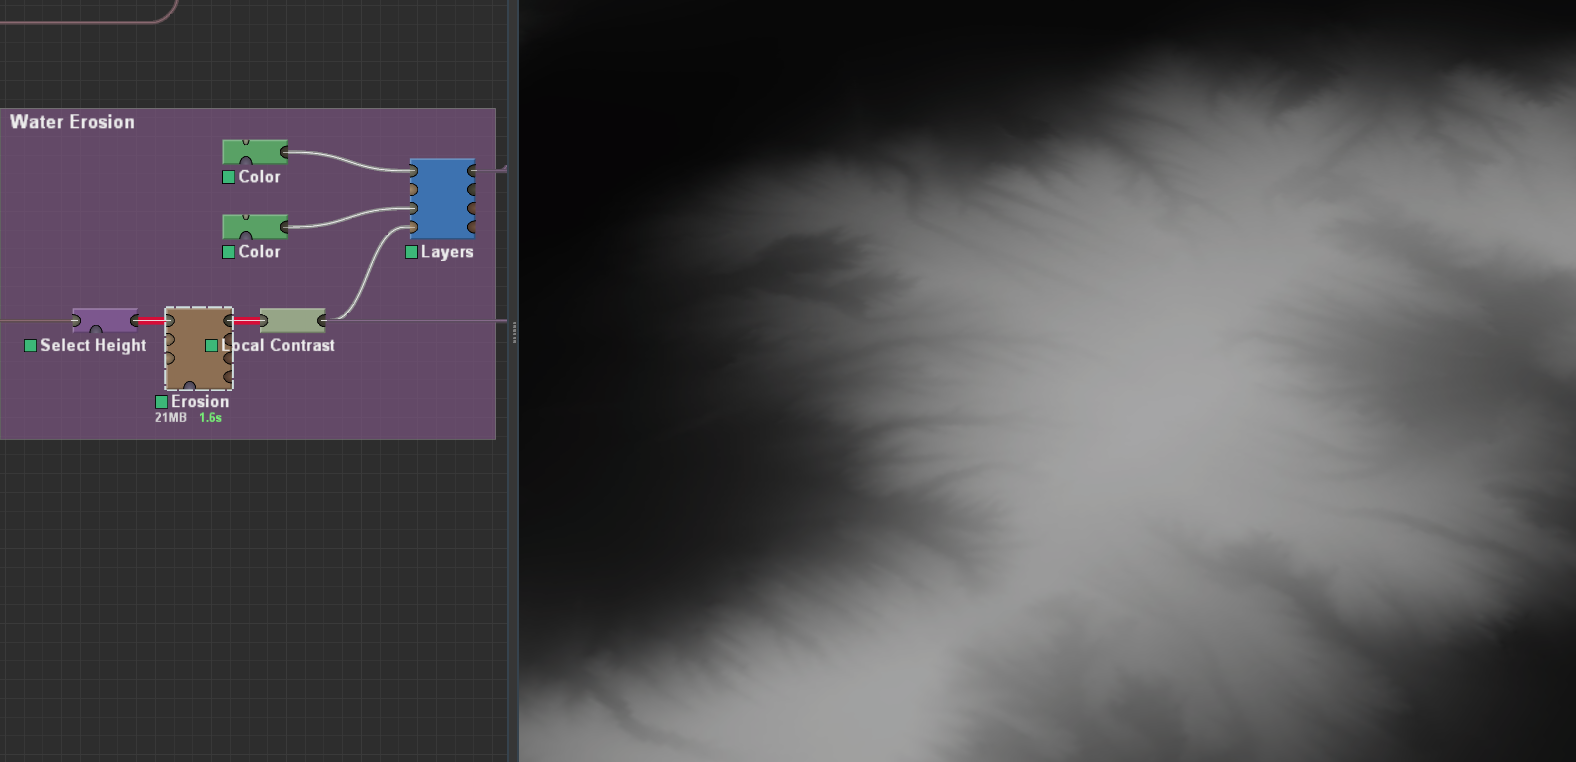
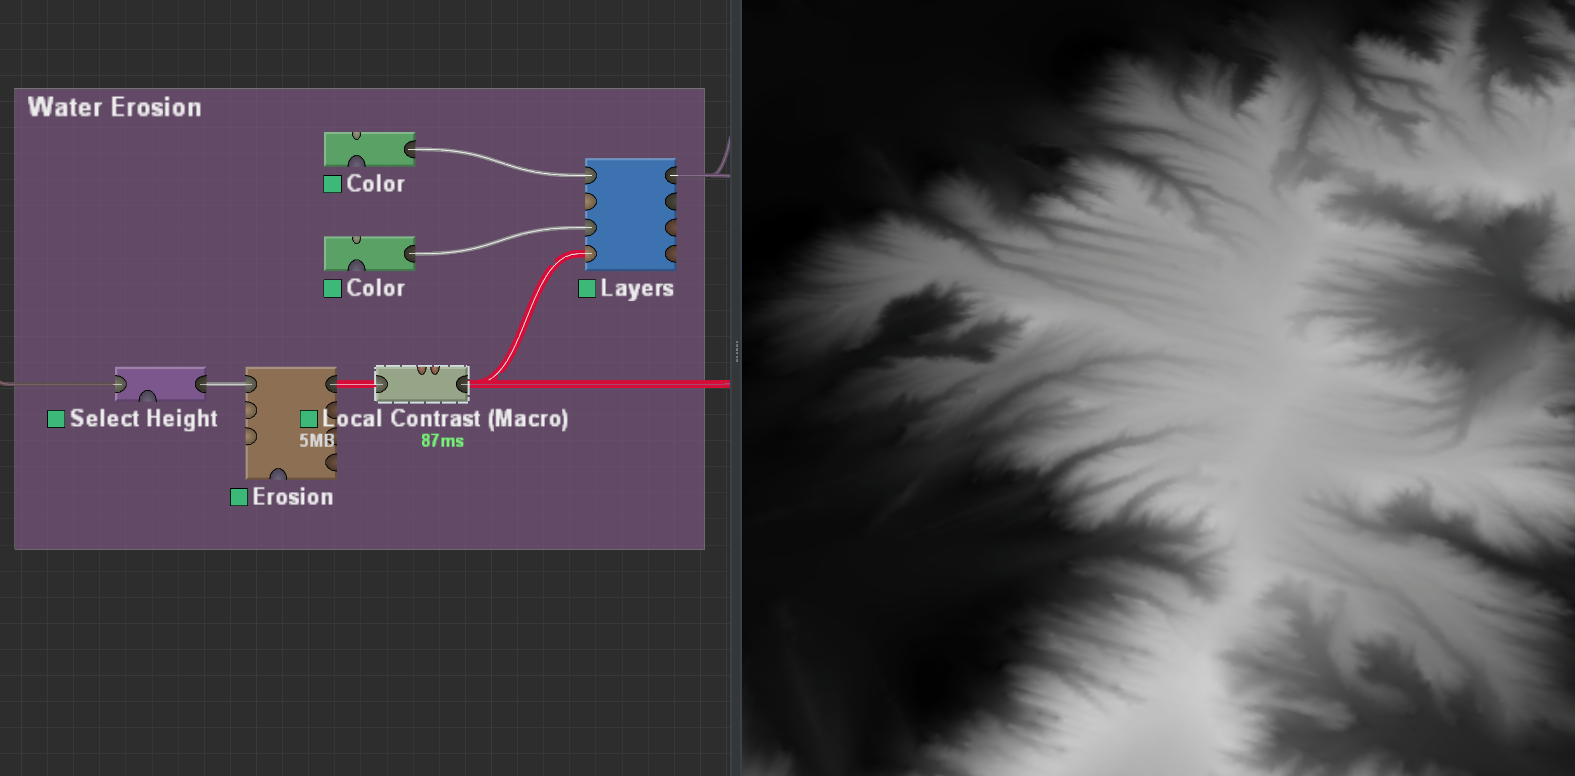
Mars project finished

diff --git a/project_mars.html b/project_mars.html
@@ -42,17 +42,48 @@
         <div id="content_shelf">
             <p id="content_header">Mars Landscape</p>
             <img src="images/projects/mars/mainshot.gif" class="project_image" style="width: 45vw;">
-            <p class="project_bodytext">This project is one of my creations made in <i>World&nbsp;Machine</i> and <i>Unreal&nbsp;Engine</i>.<br>
-            My plan was to recreate a planet's surface in a stylized way.<br>
-            I chose Mars, as it's got a nice color palette and its terrain has strong signs of erosion that I wanted to be challenged by.</p>
+            <p class="project_bodytext">
+                This project is one of my creations made in <i>World&nbsp;Machine</i> and <i>Unreal&nbsp;Engine</i>.<br>
+                My plan was to recreate a planet's surface in a stylized way.<br>
+                I chose Mars, as it's got a nice color palette and its terrain has strong signs of erosion that I wanted to be challenged by.
+            </p>
 
-            <p class="project_bodytext">I started out with a basic perlin noise pattern, which I adjusted through curves to achieve the barren look of Mars' landscape.<br>
-            By looking at photographs of the planet's surface, I could see that while it is relatively flat in general, there are hills and mountains that protrude robustly.</p>
+            <p class="project_bodytext">
+                I started out with a basic perlin noise pattern, which I adjusted through curves to achieve the barren look of Mars' landscape.<br>
+                By looking at photographs of the planet's surface, I could see that while it is relatively flat in general, there are hills and mountains that protrude robustly.
+            </p>
             <div>
                 <img src="images/projects/mars/WM_Mars_Process1_before.png" class="project_image" style="width: 30vw;">
                 <img src="images/projects/mars/WM_Mars_Process1.png" class="project_image" style="width: 45vw;">
             </div>
             <p class="project_bodytext">The mountains of Mars are full of ridges and talus slopes as well, which I added through erosion and thermal wheathering as the next steps.</p>
+
+            <div>
+                <img src="images/projects/mars/WM_Mars_Process2.png" class="project_image" style="width: 37vw;">
+                <img src="images/projects/mars/WM_Mars_Process3.png" class="project_image" style="width: 35vw;">
+            </div>
+            <p class="project_bodytext">
+                The lower parts of Mars' landscape are full of vein-like formations created by the former presence of water.<br>
+                To achieve this look, I created a height-based mask to select the flat landscape between the mountains,<br>making sure that it bleeds a little bit into the foot of the mountains too, to create a smoother blend between the landforms.
+            </p>
+
+            <div>
+                <img src="images/projects/mars/WM_Mars_Process4_before.png" class="project_image" style="width: 35vw;">
+                <img src="images/projects/mars/WM_Mars_Process4.png" class="project_image" style="width: 35vw;">
+            </div>
+            <p class="project_bodytext">
+                Since the planet's water contained salt before it evaporated, the salt is now covering these lower parts of the landscape.<br>
+                To achieve this look, I blended in the previously created mask layer with the albedo of the surface, lightening these lower areas in the process.
+            </p>
+
+            <div>
+                <img src="images/projects/mars/WM_Mars_Process5.png" class="project_image" style="width: 35vw;">
+                <img src="images/projects/mars/WM_Mars2.png" class="project_image" style="width: 35vw;">
+            </div>
+            <p class="project_bodytext">The final result in <i>World Machine</i>.</p>
+
+            <img src="images/projects/mars/UE_Mars.png" class="project_image" style="width: 50vw;">
+            <p class="project_bodytext">Ported over to <i>Unreal Engine</i>, where I added volumetric fog, procedural athmosphere, and post processing effects to render the final look.</p>
         </div>
     </div>
 
